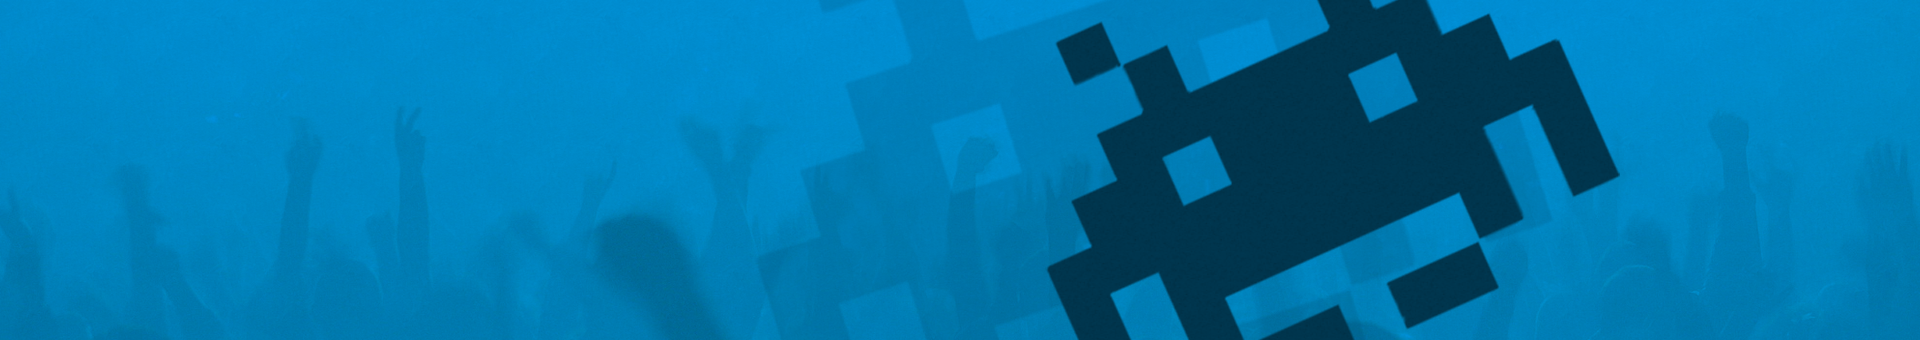
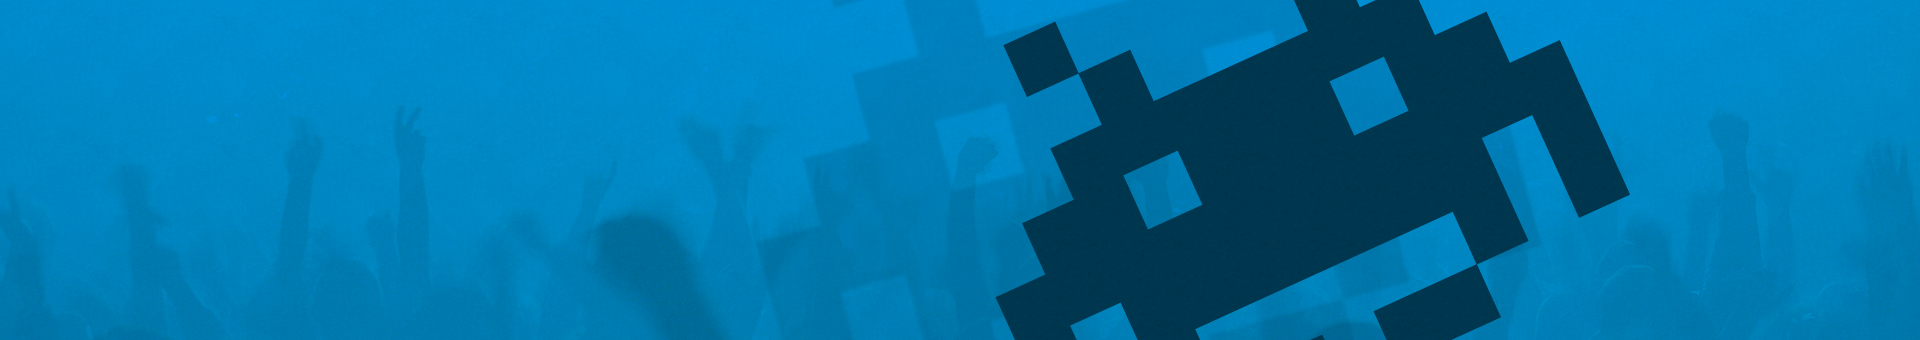
Instanssi 2013: Layout updated.
Header image changed, mobile nav improvements, animations changed to use
css3 and some css styling.

Changed region(s): [[0.5, 0.0, 0.875, 1.0], [0.6875, 0.1471, 0.75, 0.3824], [0.7812, 0.1176, 0.8125, 0.1765]]

diff --git a/Instanssi/main2013/static/main2013/css/style.css b/Instanssi/main2013/static/main2013/css/style.css
@@ -2,48 +2,59 @@
 	Theme: Instanssi 2012
 	Author: Janne Leppänen
 	
+	Fonts:
 	font-family: 'Open Sans', sans-serif;
 	font-family: 'Exo', sans-serif;
 */
 
 /* general */
 html , body { font-family: helvetica;   background: url('../images/snow.png'); }
-.clearer { clear: both; }
-img { max-width: 97% !important; height: auto !important; }
+.clearer, .clear { clear: both; }
+img { max-width: 99% !important; height: auto !important; }
 body * { color: #333; font-size: 14px; line-height: 150%; font-family: 'Open Sans', sans-serif; }
 h1{ font-family: 'Exo', sans-serif; font-variant: small-caps; font-size: 48px; margin-bottom: 20px; color: #26A8D3;  font-weight: bold; }
-
-.item .title,
-.header,
-h2 { font-variant: small-caps; font-size: 24px; margin-bottom: 20px; color: #26A8D3;  font-weight: bold; }
-
-
+h2, .item .title, .header  { font-family: 'Exo', sans-serif;  font-variant: small-caps; font-size: 24px; margin-bottom: 20px; color: #26A8D3;  font-weight: bold; }
 h3 { font-variant: small-caps; font-size: 16px; margin-bottom: 20px; color: #26A8D3;  font-weight: bold; }
 h4 { font-variant: small-caps; font-size: 14px; margin-bottom: 20px; color: #26A8D3;  font-weight: bold; }
 b { font-weight: bold; }
 strong { font-weight: bold; }
 i { font-style: italic; }
-blockquote {
- font-size:125%;
- font-style:italic;
- margin-left: 4%;
- margin-bottom: 10px; 
+blockquote { font-size:125%; font-style:italic; margin-left: 4%; margin-bottom: 10px; }
+
+
+/* buttons */
+.btn { font-family: 'Exo', sans-serif; background: #26A8D3; color: #fff !important; text-decoration: none !important; display: inline-block; padding: 10px; border-radius: 0px; /*ie-inline-block*/ *display: inline; zoom: 1; font-size: 20px;
+	text-shadow: 1px 1px 0px #116D87;
+	background-image: linear-gradient(bottom, rgb(38,168,211) 28%, rgb(33,156,194) 83%);
+	background-image: -o-linear-gradient(bottom, rgb(38,168,211) 28%, rgb(33,156,194) 83%);
+	background-image: -moz-linear-gradient(bottom, rgb(38,168,211) 28%, rgb(33,156,194) 83%);
+	background-image: -webkit-linear-gradient(bottom, rgb(38,168,211) 28%, rgb(33,156,194) 83%);
+	background-image: -ms-linear-gradient(bottom, rgb(38,168,211) 28%, rgb(33,156,194) 83%);
+	background-image: -webkit-gradient(
+		linear,
+		left bottom,
+		left top,
+		color-stop(0.28, rgb(38,168,211)),
+		color-stop(0.83, rgb(33,156,194))
+	);
 }
+.btn:hover { color: #fff; opacity: 0.9; }
+
 
 /* structure */
 .container { width: 900px; margin: 0 auto; padding: 0px 0px;  }
 
 
 /* header */
-#page-header { position: relative; width:100%; background: url('../images/header-bg.png') no-repeat top center #0088C3;  margin-bottom: 40px; box-shadow: 0 1px 10px #fff; }
+#page-header { position: relative; width:100%; background: url('../images/header-bg.png') no-repeat top center #0088C3;  margin-bottom: 40px; box-shadow: 0 10px 10px #fff; }
 #page-header .header-top { min-height: 258px; }
 #page-header .header-top .logo { margin: 8px 0px 0px 0px; }
 
 #page-header a { text-decoration: none; }
 #page-header .header-top h1 {font-size: 46px; color: #fff; font-weight: 800; font-variant: small-caps; padding: 60px 0px 0px 0px; line-height: 20%; }
 #page-header .header-top .tagline { font-family: 'Exo', sans-serif; font-size: 20px; color: #fff; font-weight: 800; font-variant: small-caps; line-height: 80%; margin-bottom: 5px; }
-#page-header .header-top .time { font-family: 'Exo', sans-serif; font-size: 65px; color: #fff; font-weight: 800; font-variant: small-caps; line-height: 80%; }
-#page-header .header-top .place { font-size: 52px; color: #fff; font-weight: 800; font-variant: small-caps;line-height: 80%; letter-spacing: 2px; }
+#page-header .header-top .time { font-family: 'Exo', sans-serif; font-size: 68px; color: #fff; font-weight: 800; font-variant: small-caps; line-height: 80%; }
+#page-header .header-top .place { font-size: 58px; color: #fff; font-weight: 800; font-variant: small-caps;line-height: 80%; letter-spacing: 2px; }
 
 
 /* navigation */
@@ -52,9 +63,9 @@ blockquote {
 
 #page-header nav { bottom: 0px; position: relative; bottom: 0px; }
 #page-header nav ul { margin: 0px; background: rgba( 0,0,0,0.7); }
-#page-header nav ul .menu-item { display: inline-block; padding: 10px 0px; width: auto; *display: inline; *zoom: 1; }
-#page-header nav ul .menu-item a { text-decoration: none; padding: 10px; position: relative; color: #fff; }
-#page-header nav ul .menu-item a:hover { }
+#page-header nav ul .menu-item { display: inline-block; padding: 10px 0px; width: auto; /*ie-inline-block */ *display: inline; *zoom: 1; }
+#page-header nav ul .menu-item a { text-decoration: none; padding: 10px; position: relative; color: #fff; top: 0px; }
+#page-header nav ul .menu-item a:hover { top: -3px; }
 #page-header nav ul .current-menu-item { background: #fff; }
 #page-header nav ul .current-menu-item a { color: #333; text-shadow: none; }
 
@@ -66,7 +77,6 @@ blockquote {
 #primary a { color: #0977BC; text-decoration: underline; }
 #primary a:hover {  color: #1F86F4; } 
 #primary img { border: 3px solid #fff; box-shadow: 0px 0px 20px #ccc;}
-
 #primary p { margin-bottom: 10px; }
 #primary table { margin-bottom: 20px; width: 100%; }
 #primary table tr {  }
@@ -76,35 +86,36 @@ blockquote {
 #primary table .title { font-weight: bold; }
 #primary table tr:nth-child( 2n +1 ) { background: #eee; }
 #primary table td img{ width: 100px; height: auto; border: none; box-shadow: none; }
-#primary .btn { background: #26A8D3; color: #fff; text-decoration: none; display: inline-block; padding: 10px; border-radius: 2px; /*ie-inline-block*/ *display: inline; zoom: 1; }
-#primary .btn:hover { color: #fff; opacity: 0.9; }
+
 
 /* ohjelma */
-#primary .personalinfo { font-weight: bold; margin-bottom: 10px; }
+#primary .personalinfo { margin-bottom: 10px; }
+#primary .personalinfo .names { font-weight: bold; }
+#primary .personalinfo .titles { color: #aaa; font-style: italic; }
 #primary .serviceicons { text-align: right; }
 #primary .serviceicons a img { box-shadow: 0px 0px 0px transparent;  }
-#primary .item { border-bottom: 1px solid #ccc; padding-bottom: 10px; margin-bottom: 10px; }
+#primary .item { border-bottom: 1px solid #eee; padding-bottom: 5px; margin-bottom: 15px; }
+
 
 /* content - blog */
 #primary .message { padding-bottom: 20px; margin-bottom: 20px; }
 #primary .message header { margin-bottom: 20px; }
 #primary .compoinfo .name,
 #primary .message .title a {  font-variant: small-caps; font-size: 24px; margin-bottom: 20px; color: #26A8D3;  font-weight: bold; text-decoration: none; display: block; }
-#primary .message .date { color: #666; border-top: 1px solid #ccc; text-align: right; margin-top: 20px; font-size: 11px; }
+#primary .message .date { display: block; width: 100%; color: #666; border-top: 1px solid #ccc; text-align: right; margin-top: 20px; font-size: 11px; }
 
 
 /* sidebar */
 #twitter-widget {  float: left; width: 300px; }
 #twitter-widget a { color: #0977BC; text-decoration: underline; }
-#twitter-widget a:hover {  color: #1F86F4; }
+#twitter-widget a:hover { color: #1F86F4; }
 #twitter-widget .social-media { margin-bottom: 20px; }
 #twitter-widget .social-media a { margin-right: 3%; }
-#twitter-widget .social-media a:hover {  }
+#twitter-widget .social-media a:hover { opacity: 0.7; }
 #twitter-widget .widget { margin-bottom: 20px; }
 #twitter-widget #tweets .link a, #tweets .time { font-size: 11px; }
 #twitter-widget #tweets li { margin-bottom: 20px; }
-#twitter-widget a.ticket-button { text-decoration: none; background: #26A8D3; border-radius: 3px; padding: 10px; font-size: 20px; color: #fff; text-shadow: 1px 1px 0px #2684A0; display: block; }
-#twitter-widget a.ticket-button:hover { color: #fff; opacity: 0.9; }
+
 
 
 /* footer */
@@ -116,7 +127,8 @@ blockquote {
 #page-footer .sponsors  h1 {  }
 #page-footer .sponsors .sponsor-placeholder { width: 128px; height: 71px; border: 1px dashed #333; float: left; margin: 0px 20px 20px 0px; }
 #page-footer .contact { width: 150px;  }
-#page-footer .menu-item a{ color: #ccc; text-decoration: none; }
+#page-footer .menu-item a { color: #ccc; text-decoration: none; }
+#page-footer .menu-item a:hover { padding-left: 5px; }
 #page-footer .current-menu-item a{ color: #000; background: #fff; text-decoration: none; padding: 0px 10px; }
 
 /* footer always bottom */
@@ -125,6 +137,17 @@ html, body { margin: 0; padding: 0; height: 100%; }
 #content { padding-bottom: 390px; }
 #page-wrap { min-height: 100%; position: relative; }
 
+/* animations */
+.btn,
+#twitter-widget .social-media a,
+#page-footer .menu-item a,
+#page-header nav ul .menu-item a {
+	-webkit-transition: all 0.2s ease-in-out;
+	-moz-transition: all 0.2s ease-in-out;
+	-o-transition: all 0.2s ease-in-out;
+	-ms-transition: all 0.2s ease-in-out;
+	transition: all 0.2s ease-in-out;
+}
 
 /* Large desktop */
 @media (min-width: 1200px) { 
@@ -166,6 +189,7 @@ html, body { margin: 0; padding: 0; height: 100%; }
 	#page-header { background: #111; background-image: none; }
 	#page-header .header-top { background: url('../images/header-bg.png') center top #0088C3; }
 	#page-header nav ul .menu-item { width: 49%; }
+	#page-header nav ul .menu-item  a:hover { top:0px; }
 	#page-header nav ul{ background: transparent; display: none; }
 	
 	#primary th{ display: none; visibility: hidden; }
@@ -174,7 +198,6 @@ html, body { margin: 0; padding: 0; height: 100%; }
 	#primary table td { display: block; width: 92%; padding: 1% 4%;}
 	
 	#page-footer .sponsors .sponsor-placeholder { width: 46%; margin: 1%;  }
-	
 }
 
 /* portrait phones and down */
@@ -183,6 +206,4 @@ html, body { margin: 0; padding: 0; height: 100%; }
 	#page-header .header-top .tagline { font-size: 14px; }
 	#page-header .header-top .time { font-size: 46px; }
 	#page-header .header-top .place { font-size: 36px; }
-
-	
 }

diff --git a/Instanssi/main2013/static/main2013/js/functions.js b/Instanssi/main2013/static/main2013/js/functions.js
@@ -9,16 +9,26 @@ $(document).ready(function (){
 	});
 	
 	/* nav effect */
-	$('nav li a').mouseenter(function(){
+	/*$('nav li a').mouseenter(function(){
 		$( this ).stop().animate( { 'opacity' : 0.9, 'top' : '-3px' }, 200 );
 	});
 	$('nav li a').mouseleave(function(){
 		$( this ).stop().animate( { 'opacity' : 1.0, 'top' : '0px' }, 200 );
-	});
+	});*/
+	
 	
 	/* mobile nav button */
 	$( 'nav .nav-btn' ).click( function(){
-		$( '#page-header nav ul' ).slideToggle( 400 );
+		
+		var page_header_nav_ul = $( '#page-header nav ul' );
+		
+		if( !page_header_nav_ul.is(':visible') ){
+			$('html, body').animate({
+				scrollTop: $("#page-header nav").offset().top
+			}, 400);
+		}
+		
+		page_header_nav_ul.slideToggle( 400 );
 	});
 	$(window).resize(function() {
 		if( window.innerWidth  > 480 && !$( '#page-header nav ul' ).is(':visible')  ){

diff --git a/Instanssi/main2013/templates/main2013/base.html b/Instanssi/main2013/templates/main2013/base.html
@@ -93,7 +93,6 @@
 						<a href="{% url 'ext-blog:rss' %}"><img src="{% static 'main2013/images/icons/icon-rss.png' %}" alt="" ></a>
 						<div class="clearer"></div>
 						<br />
-						<p><a href="http://www.pouet.net/party.php?which=1544&when=2011">Demot pouet.netissä! »</a></p>
 						<p>#instanssi @ IRCNet</p>
 					</div>
 				</section>
@@ -102,7 +101,7 @@
 					<p><span id="countdown"></span></p>
 				</section>
 				<section class="widget">
-					<a href="#" class="ticket-button">Osta Lippu! </a>
+					<a href="#" class="btn full-width">Osta Lippu! </a>
 				</section>
 				<section class="widget widget-twitter">
 					<h2>Twitter</h2>

diff --git a/Instanssi/ext_blog/templates/ext_blog/blog_messages.html b/Instanssi/ext_blog/templates/ext_blog/blog_messages.html
@@ -2,9 +2,9 @@
 <div id="blog">
 {% for entry in entries %}
 	<div class="message">
-		<div class="title"><a name="blog{{ entry.id }}">{{ entry.title }}</a></div>
+		<h2>{{ entry.title }}</h2>
 		{{ entry.text|safe }}
-		<div class="date">{{ entry.date|date:"d.m.Y \k\l\o\. H:i" }}</div>
+		<time datetime="{{ entry.date|date:"Y-m-d\TH:i" }}"class="date">{{ entry.date|date:"d.m.Y \k\l\o\. H:i" }}</time> 
 	</div>
 {% endfor %}
 </div>
